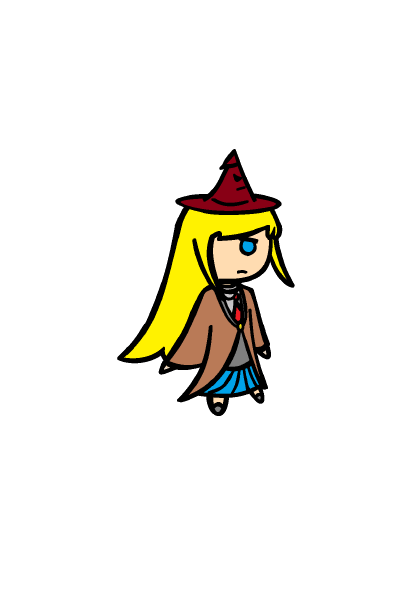
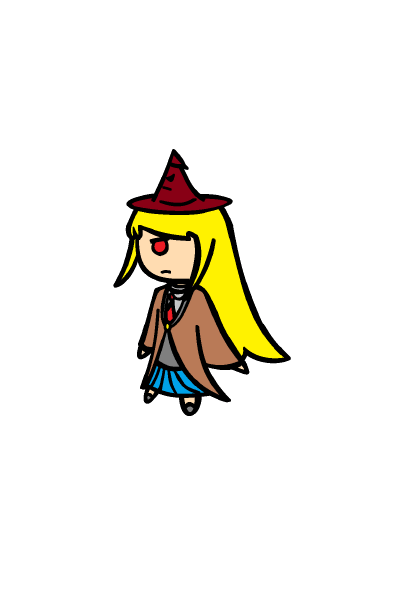
Add different directions images of sortinghat

Changed region(s): [[0.2647, 0.2484, 0.7353, 0.683]]

diff --git a/view/view.py b/view/view.py
@@ -41,11 +41,11 @@ class GraphicalView:
 
         # scale the pictures to proper size
         self.pictures = {}
-        self.characters = {}
-        self.grayscale_image = {}
-        self.transparent_image = {}
-        self.wearing_sortinghat_images = {}
-        self.sortinghat_animation_pictures = []
+        self.characters_image = {}
+        self.petrified_player_image = {}
+        self.transparent_player_image = {}
+        self.wearing_sortinghat_image = {}
+        self.sortinghat_animation_picture = []
         self.shining_patronus: pg.Surface
         self.magic_circle: pg.Surface
 
@@ -71,44 +71,71 @@ class GraphicalView:
         for item in const.ITEM_SET:
             picture = pg.image.load(const.PICTURES_PATH[item]).convert_alpha()
             self.pictures[item] = crop(picture, const.ITEM_WIDTH, const.ITEM_HEIGHT, True)
-            self.transparent_image[item] = self.pictures[item].convert_alpha()
-            self.transparent_image[item].set_alpha(const.NEAR_VANISH_TRANSPARENCY)
+            self.transparent_player_image[item] = self.pictures[item].convert_alpha()
+            self.transparent_player_image[item].set_alpha(const.NEAR_VANISH_TRANSPARENCY)
         for player in const.PLAYER_IDS:
             # normal
             picture = pg.image.load(os.path.join(const.PICTURES_PATH[player], 
                                                  const.PICTURES_PATH[const.PLAYER_SKINS.NORMAL], 
                                                  "front.png")).convert_alpha()
-            self.characters[player] = {}
-            self.characters[player][const.CHARACTER_DIRECTION.DOWN] =\
+            self.characters_image[player] = {}
+            self.characters_image[player][const.CHARACTER_DIRECTION.DOWN] =\
                   crop(picture, const.PLAYER_RADIUS*2, const.PLAYER_RADIUS*2, True)
             picture = pg.image.load(os.path.join(const.PICTURES_PATH[player], 
                                                  const.PICTURES_PATH[const.PLAYER_SKINS.NORMAL], 
                                                  "left.png")).convert_alpha()
-            self.characters[player][const.CHARACTER_DIRECTION.LEFT] =\
+            self.characters_image[player][const.CHARACTER_DIRECTION.LEFT] =\
                   crop(picture, const.WINDOW_SIZE[0], 
-                       self.characters[player][const.CHARACTER_DIRECTION.DOWN].get_height())
+                       self.characters_image[player][const.CHARACTER_DIRECTION.DOWN].get_height())
             picture = pg.image.load(os.path.join(const.PICTURES_PATH[player], 
                                                  const.PICTURES_PATH[const.PLAYER_SKINS.NORMAL], 
                                                  "rear.png")).convert_alpha()
-            self.characters[player][const.CHARACTER_DIRECTION.UP] =\
+            self.characters_image[player][const.CHARACTER_DIRECTION.UP] =\
                   crop(picture, const.WINDOW_SIZE[0], 
-                       self.characters[player][const.CHARACTER_DIRECTION.DOWN].get_height())
+                       self.characters_image[player][const.CHARACTER_DIRECTION.DOWN].get_height())
             picture = pg.image.load(os.path.join(const.PICTURES_PATH[player], 
                                                  const.PICTURES_PATH[const.PLAYER_SKINS.NORMAL], 
                                                  "right.png")).convert_alpha()
-            self.characters[player][const.CHARACTER_DIRECTION.RIGHT] =\
+            self.characters_image[player][const.CHARACTER_DIRECTION.RIGHT] =\
                   crop(picture, const.WINDOW_SIZE[0], 
-                       self.characters[player][const.CHARACTER_DIRECTION.DOWN].get_height())
+                       self.characters_image[player][const.CHARACTER_DIRECTION.DOWN].get_height())
 
             # grayscale
-            self.grayscale_image[player] = pg.transform.grayscale(self.characters[player][const.CHARACTER_DIRECTION.DOWN])
+            self.petrified_player_image[player] = {}
+            for direction in const.CHARACTER_DIRECTION:
+                self.petrified_player_image[player][direction] = pg.transform.grayscale(self.characters_image[player][direction])
             # transparent
-            self.transparent_image[player] = self.characters[player][const.CHARACTER_DIRECTION.DOWN].convert_alpha()
-            self.transparent_image[player].set_alpha(const.CLOAK_TRANSPARENCY)
+            self.transparent_player_image[player] = {}
+            for direction in const.CHARACTER_DIRECTION:
+                self.transparent_player_image[player][direction] =\
+                      self.characters_image[player][direction].convert_alpha()
+                self.transparent_player_image[player][direction].set_alpha(const.CLOAK_TRANSPARENCY)
+            # sortinghat
+            self.wearing_sortinghat_image[player] = {}
             picture = pg.image.load(os.path.join(const.PICTURES_PATH[player], 
                                                  const.PICTURES_PATH[const.PLAYER_SKINS.SORTINGHAT], 
                                                  "front.png")).convert_alpha()
-            self.wearing_sortinghat_images[player] = crop(picture, const.PLAYER_RADIUS*2, const.PLAYER_RADIUS*2, True)
+            self.wearing_sortinghat_image[player][const.CHARACTER_DIRECTION.DOWN] =\
+                  crop(picture, self.characters_image[player][const.CHARACTER_DIRECTION.DOWN].get_width(), 
+                       const.PLAYER_RADIUS*5)
+            picture = pg.image.load(os.path.join(const.PICTURES_PATH[player], 
+                                                 const.PICTURES_PATH[const.PLAYER_SKINS.SORTINGHAT], 
+                                                 "left.png")).convert_alpha()
+            self.wearing_sortinghat_image[player][const.CHARACTER_DIRECTION.LEFT] =\
+                  crop(picture, const.WINDOW_SIZE[0], 
+                       self.wearing_sortinghat_image[player][const.CHARACTER_DIRECTION.DOWN].get_height())
+            picture = pg.image.load(os.path.join(const.PICTURES_PATH[player], 
+                                                 const.PICTURES_PATH[const.PLAYER_SKINS.SORTINGHAT], 
+                                                 "rear.png")).convert_alpha()
+            self.wearing_sortinghat_image[player][const.CHARACTER_DIRECTION.UP] =\
+                  crop(picture, const.WINDOW_SIZE[0], 
+                       self.wearing_sortinghat_image[player][const.CHARACTER_DIRECTION.DOWN].get_height())
+            picture = pg.image.load(os.path.join(const.PICTURES_PATH[player], 
+                                                 const.PICTURES_PATH[const.PLAYER_SKINS.SORTINGHAT], 
+                                                 "right.png")).convert_alpha()
+            self.wearing_sortinghat_image[player][const.CHARACTER_DIRECTION.RIGHT] =\
+                  crop(picture, const.WINDOW_SIZE[0], 
+                       self.wearing_sortinghat_image[player][const.CHARACTER_DIRECTION.DOWN].get_height())
         for ghost in const.GHOST_IDS:
             picture = pg.image.load(const.PICTURES_PATH[ghost]).convert_alpha()
             self.pictures[ghost] = crop(picture, const.GHOST_RADIUS*2, const.GHOST_RADIUS*2, True)
@@ -144,13 +171,13 @@ class GraphicalView:
         self.magic_circle = crop(picture, const.MAGIC_CIRCLE_RADIUS*2, const.MAGIC_CIRCLE_RADIUS*2, True)
         self.magic_circle.set_alpha(127)
         picture = pg.image.load(const.PICTURES_PATH[const.ITEM_SET.SORTINGHAT]).convert_alpha()
-        self.sortinghat_animation_pictures.append(crop(picture, 0.5*const.ITEM_WIDTH, 0.5*const.ITEM_HEIGHT))
+        self.sortinghat_animation_picture.append(crop(picture, 0.5*const.ITEM_WIDTH, 0.5*const.ITEM_HEIGHT))
 
         angle = 0
         while angle < 360:
             angle += const.SORTINGHAT_ANIMATION_ROTATE_SPEED / const.FPS
-            self.sortinghat_animation_pictures.append(
-                pg.transform.rotate(self.sortinghat_animation_pictures[0], angle))
+            self.sortinghat_animation_picture.append(
+                pg.transform.rotate(self.sortinghat_animation_picture[0], angle))
 
     def initialize(self, event):
         """
@@ -284,19 +311,19 @@ class GraphicalView:
         for obj in objects:
             if obj[1] == const.OBJECT_TYPE.PLAYER:
                 direction = self.character_direction[obj[2]]
-                if obj[5]:
-                    if half_sec % 2 == 0:
-                        self.screen.blit(self.transparent_image[obj[2]], obj[3])
-                    else:
-                        self.screen.blit(self.pictures[obj[2]], obj[3])
-                elif obj[4] == const.ITEM_SET.PETRIFICATION:
-                    self.screen.blit(self.grayscale_image[obj[2]], obj[3])
+                # if obj[5]:
+                #     if half_sec % 2 == 0:
+                #         self.screen.blit(self.transparent_player_image[obj[2]], obj[3])
+                #     else:
+                #         self.screen.blit(self.pictures[obj[2]], obj[3])
+                if obj[4] == const.ITEM_SET.PETRIFICATION:
+                    self.screen.blit(self.petrified_player_image[obj[2]][direction], obj[3])
                 elif obj[4] == const.ITEM_SET.CLOAK:
-                    self.screen.blit(self.transparent_image[obj[2]], obj[3])
+                    self.screen.blit(self.transparent_player_image[obj[2]][direction], obj[3])
                 elif obj[4] == const.ITEM_SET.SORTINGHAT:
-                    self.screen.blit(self.wearing_sortinghat_images[obj[2]], obj[3])
+                    self.screen.blit(self.wearing_sortinghat_image[obj[2]][direction], obj[3])
                 else:
-                    self.screen.blit(self.characters[obj[2]][direction], obj[3])
+                    self.screen.blit(self.characters_image[obj[2]][direction], obj[3])
             elif obj[1] == const.OBJECT_TYPE.GHOST:
                 self.screen.blit(self.pictures[const.GHOST_IDS.DEMENTOR], obj[3])
             elif obj[1] == const.OBJECT_TYPE.PATRONUS:
@@ -308,7 +335,7 @@ class GraphicalView:
                 if half_sec % 2 == 0 or model.timer + 5*const.FPS < obj[4]:
                     self.screen.blit(self.pictures[obj[2]], obj[3])
                 else:
-                    self.screen.blit(self.transparent_image[obj[2]], obj[3])
+                    self.screen.blit(self.transparent_player_image[obj[2]], obj[3])
 
         # Ghost teleport chanting animation
         animations = self.ghost_teleport_chanting_animations.copy()
@@ -347,9 +374,9 @@ class GraphicalView:
             if (destination-position).length() < 2 * const.SORTINGHAT_ANIMATION_SPEED / const.FPS:
                 # maybe here can add some special effect
                 continue
-            self.screen.blit(self.sortinghat_animation_pictures[index], position)
+            self.screen.blit(self.sortinghat_animation_picture[index], position)
             index += 1
-            if index == len(self.sortinghat_animation_pictures):
+            if index == len(self.sortinghat_animation_picture):
                 index = 0
             position = position + \
                 (destination-position).normalize() * const.SORTINGHAT_ANIMATION_SPEED / const.FPS

diff --git a/const.py b/const.py
@@ -166,7 +166,7 @@ SCORE_POSITION = [[(x + ARENA_SIZE[0], y) for x in SCOREBOARD_COL] for y in SCOR
 class PLAYER_SKINS(Enum):
     NORMAL = 0
     SORTINGHAT = 1
-class CHARACTER_DIRECTION:
+class CHARACTER_DIRECTION(Enum):
     UP = 0
     LEFT = 1
     DOWN = 2
